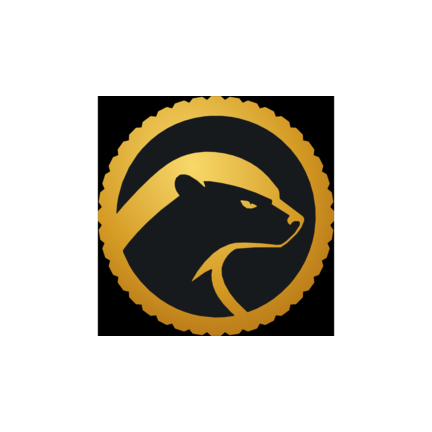
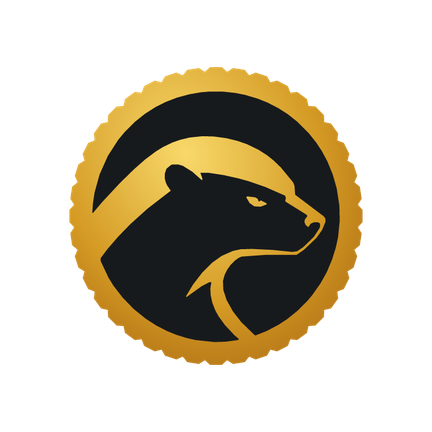
fix(native): fill the launcher mask with the payky coin
On the device the launcher icon showed a small coin inside a black
circle. The Capacitor foreground it reused has an opaque black square
behind the coin, which the round mask cut into a ring, and the coin
covered only about 55 % of the canvas, well inside the visible 72 of
108 dp.

The foreground is now composed from the PWA icon, the same coin
full-bleed with transparent corners: 298 px on the 432 px (108 dp)
canvas, about 69 %, so it fills the mask to its edge, with nothing but
transparency around it.

Changed region(s): [[0.1505, 0.1505, 0.8426, 0.8426]]

diff --git a/apps/native-app/app.config.ts b/apps/native-app/app.config.ts
@@ -22,8 +22,8 @@ export default {
   },
   android: {
     package: "me.payky.nativepreview",
-    // The Capacitor app's adaptive icon (apps/native-shell): its foreground
-    // on a transparent background.
+    // The PWA coin on a transparent background, sized to fill the launcher
+    // mask (the visible 72 of 108 dp), so no backdrop shows around it.
     adaptiveIcon: {
       foregroundImage: "./assets/launcher-foreground.png",
       backgroundColor: "#00000000",
